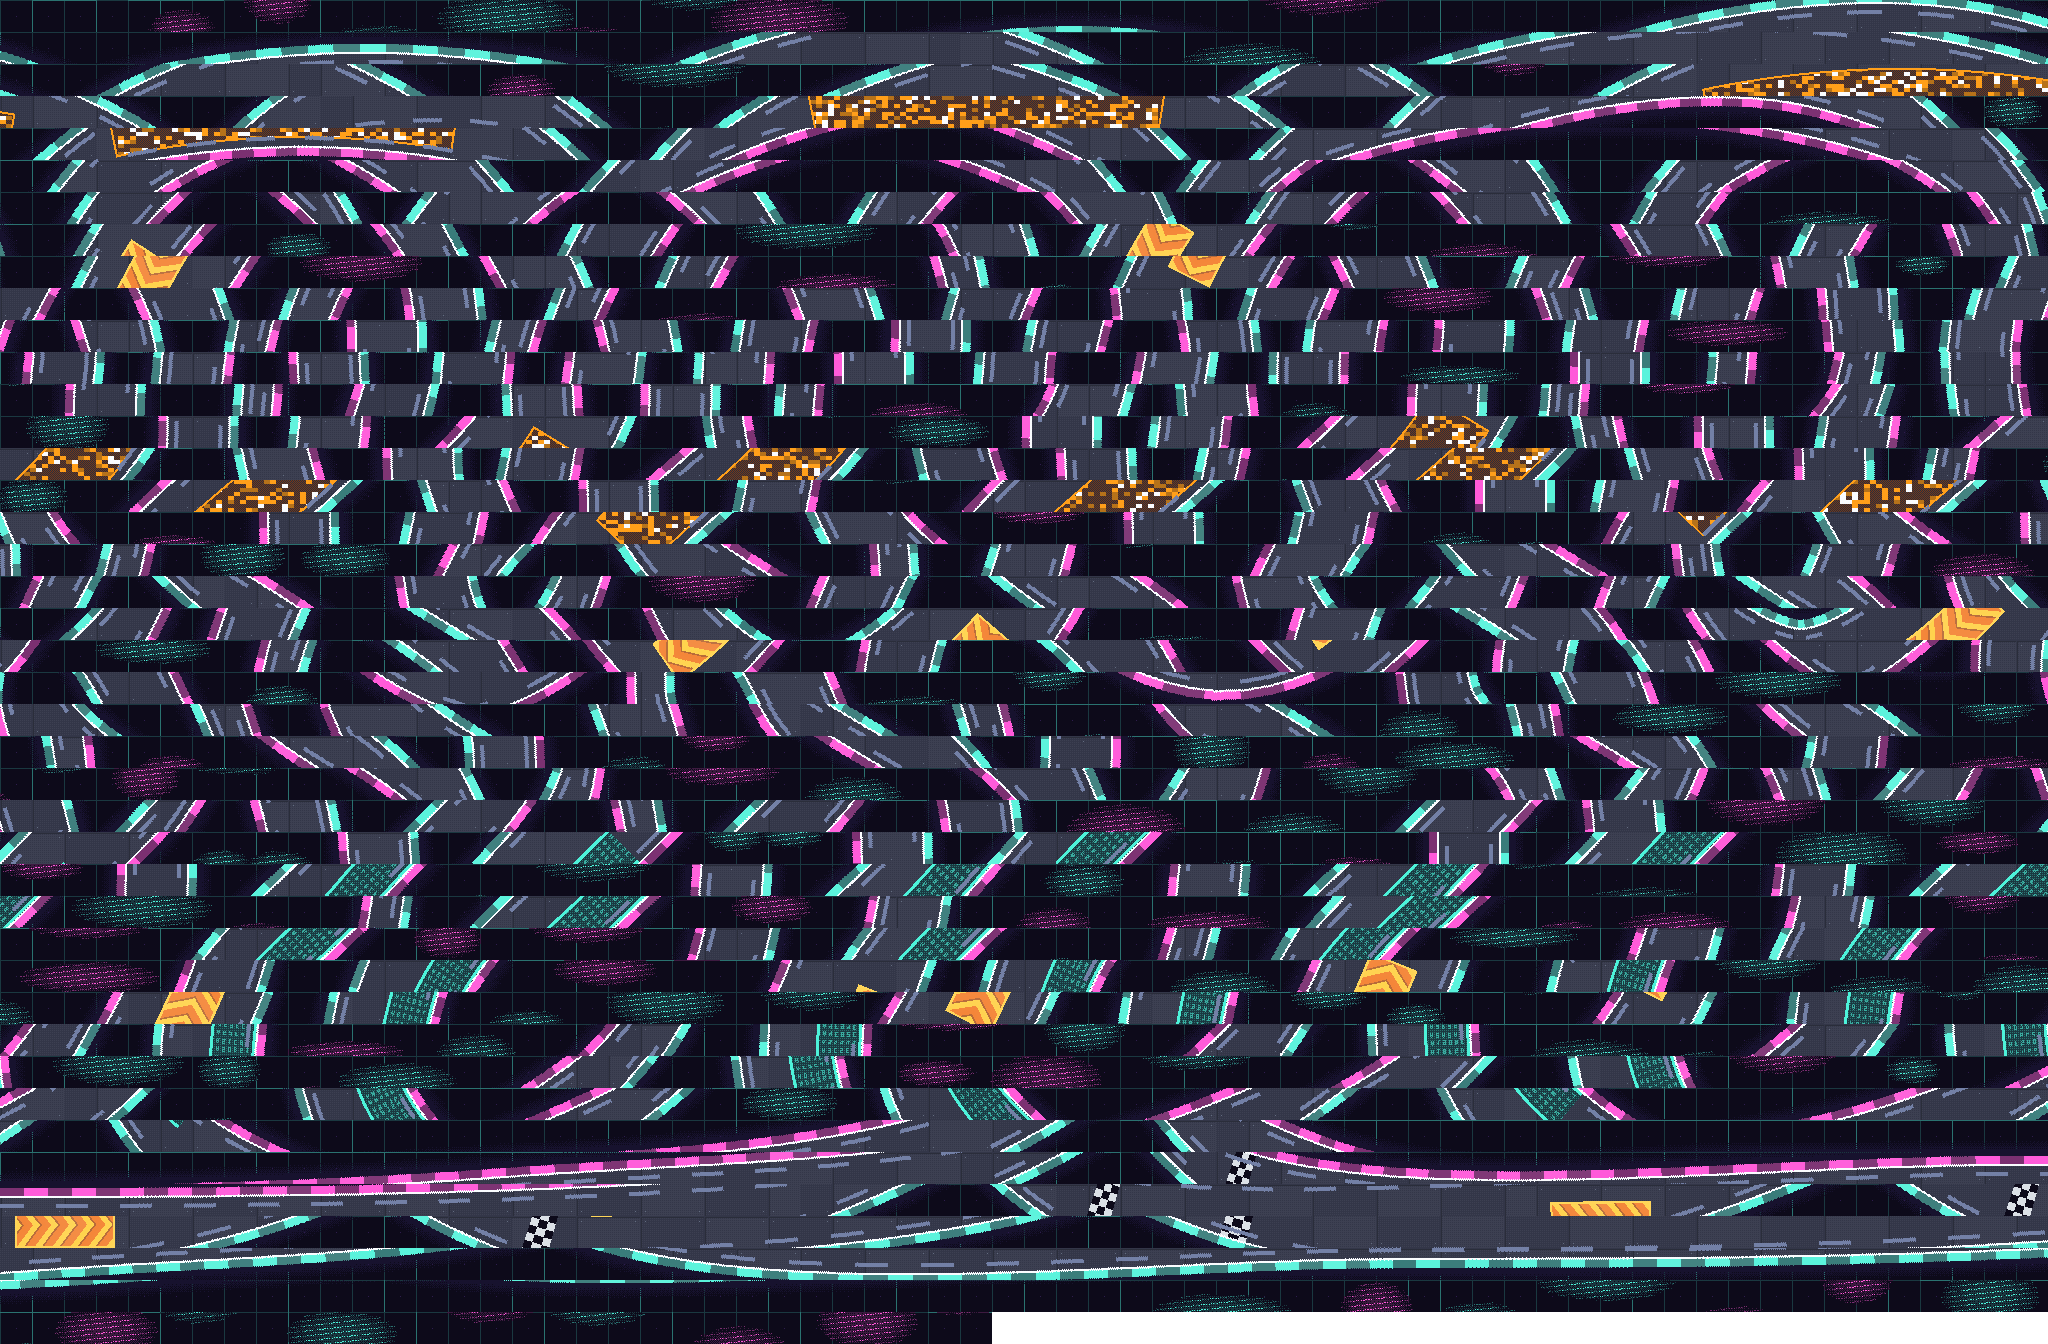
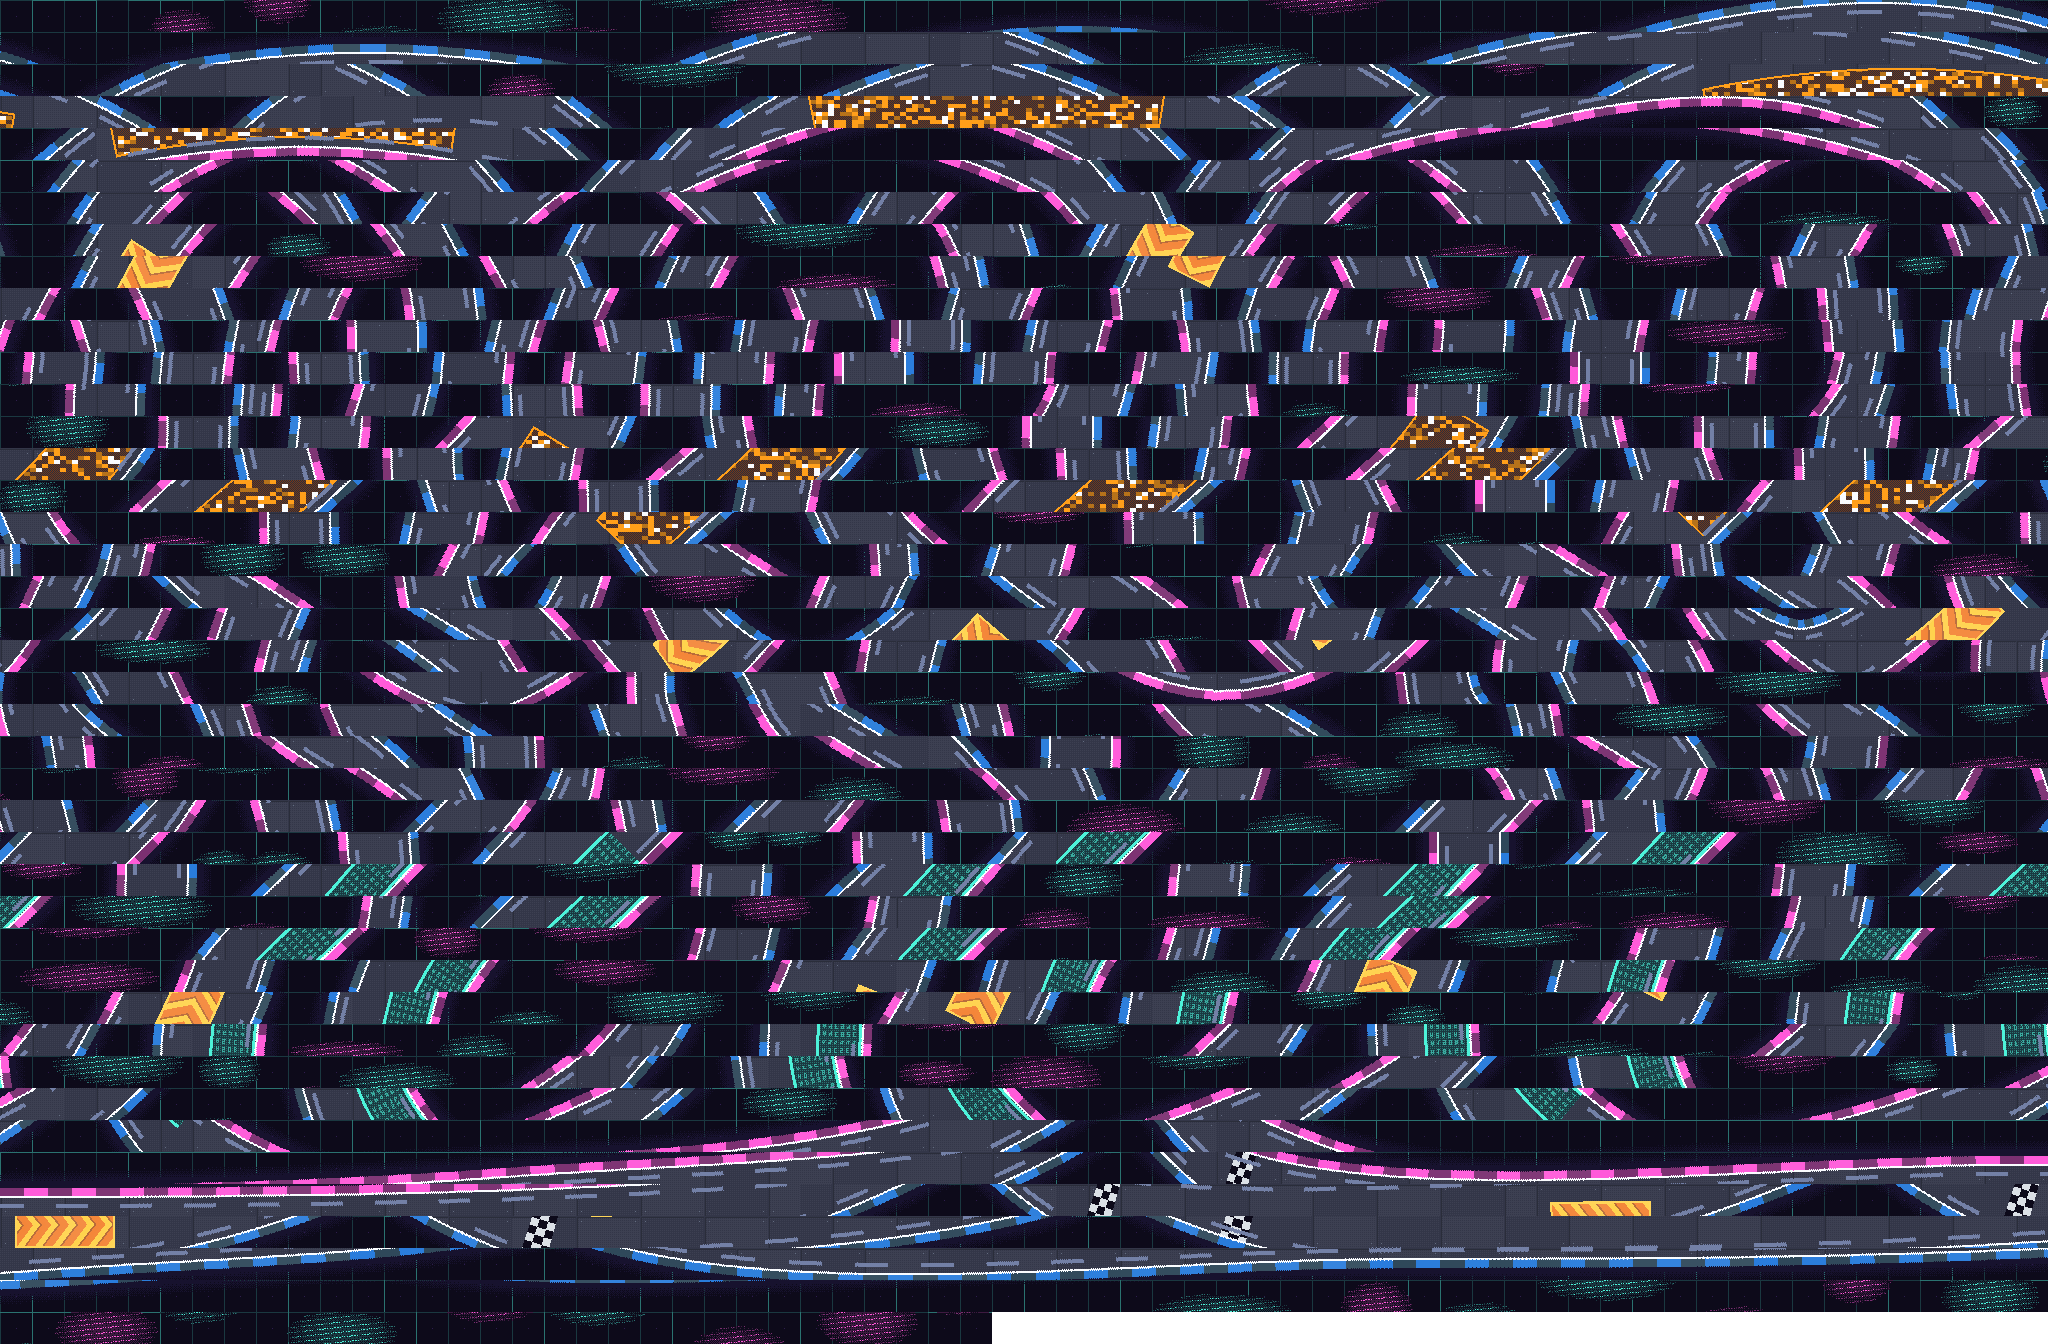
Review fixes: the glitch rests between runs, keys never stick, rails not cyan
From the adversarial review of 22f36b2..e8a9d6e:
- HIGH: a wall scrape (a hit every tick) chained 6-tick glitches over the
  whole scrape. A new glitch now waits 30 ticks after the last one started,
  and a hit during one makes it harder, never longer (P15). Tested over a
  90-tick scrape: at most 6 glitched ticks in any 30.
- The tracer's ripple leaves the road within 6 ticks of the strike (was 12).
- The right rail is cold blue, not cyan (cyan is the player's signal, P16).
- The autopilot's laps (the showcase drives on it) no longer store a best
  lap or a ghost (P7).
- The panel lets keyups through (a key held when it opened stuck) and keeps
  fx params it doesn't manage (fx-hold, fx-passes) in the URL.
- gate-p15 reads the first whole number from compare, nothing else.
- The HUD's interference band allows for the glyph's height and the dip's
  overshoot; sparks and the speed lines' vanishing point follow the dip.
- A restart clears the last race's tracer and glitch; the showcase works
  out its solo once a tick; the pools sort by a distance computed once.
- The stub reaches `hold` in a 2-lap race.
- The chase test now separates hats from kicks (sabotage found it vacuous).
- docs/effects.html (the notes page) and scripts/fx-captures (its GIFs).

diff --git a/docs/effects.html b/docs/effects.html
@@ -1,0 +1,81 @@
+<!doctype html>
+<html lang="en">
+<head>
+<meta charset="utf-8">
+<meta name="viewport" content="width=device-width, initial-scale=1">
+<title>Signal Overdrive: the 0.1 effects</title>
+<style>
+  body { margin: 0; background: #0D0A1A; color: #CCE6FF; font: 15px/1.5 ui-monospace, monospace; }
+  main { max-width: 1000px; margin: 0 auto; padding: 24px 16px 64px; }
+  h1 { color: #FF59D9; font-size: 22px; margin: 0 0 4px; }
+  h2 { color: #4DF2D9; font-size: 17px; margin: 32px 0 6px; }
+  a { color: #FFCC33; }
+  code { color: #4DF2D9; }
+  img { width: 100%; max-width: 960px; image-rendering: pixelated; border: 1px solid #2E1C4D; display: block; margin: 8px 0; }
+  table { border-collapse: collapse; margin: 8px 0; }
+  td, th { border: 1px solid #2E1C4D; padding: 4px 8px; text-align: left; vertical-align: top; }
+  th { color: #7380A6; }
+  .dim { color: #7380A6; }
+  .swatch { display: inline-block; width: 12px; height: 12px; vertical-align: middle; margin-right: 4px; }
+</style>
+</head>
+<body>
+<main>
+<h1>Signal Overdrive: the 0.1 effects</h1>
+<p class="dim">Design §4.1's 0.1 subset, plus the colour meanings. <a href="./">Play it</a>, then press <b>E</b> (or the EFFECTS button, bottom right) for the panel.</p>
+
+<h2>The panel</h2>
+<p>Each effect has ON/OFF, an intensity slider, SOLO (that effect alone) and, where it has a trigger, a button that fires it now: DROP, WALL HIT, ICE STRIKE, NEXT TIER. INTEGRITY SEEN makes the effects behave as if the cargo were at that tier. It never touches the race. SHOWCASE cycles through every effect alone for 8 s each on the autopilot, then all of them together. Everything you set goes into the address bar, so a setup is a link you can send back ("glitch at 0.6 looked right").</p>
+<p class="dim">Keys while the panel is open: Tab moves, the arrows set a slider, Enter or Space presses, E or Escape closes. The game doesn't see them. Natively: E opens the tuning overlay at the effects, F6 solo, F7 showcase, F8 wall hit, F9 ICE strike, F10 drop, F2 next tier.</p>
+
+<h2>Horizon dip</h2>
+<p><b>Trigger:</b> the drop's first downbeat (the final lap's line); DROP fires it now. <b>Look for:</b> the far road and the skyline drop about 12 rows and spring back with a small crest, while the road under you stays put and the camera kicks. The machines ride the bent ground: their screen rows go through the same bend the shader uses.</p>
+<img src="fx/dip.gif" alt="the horizon dip">
+
+<h2>Light pools</h2>
+<p><b>Trigger:</b> always on; they swell on the kick. <b>Look for:</b> magenta city pools outside the barrier, orange pools on the boost pads (flaring on the drop), cyan along the checksum lane, and an amber glow on ICE patches. Sixteen at most, the nearest to where the camera looks.</p>
+<img src="fx/pools.gif" alt="light pools">
+
+<h2>Rail and chevron chase</h2>
+<p><b>Trigger:</b> the hats step the rails' lit blocks forward; the kick steps the pads' chevrons. <b>Look for:</b> one block in four lit on each rail, stepping in rhythm, and the pads glowing on the beat.</p>
+<img src="fx/chase.gif" alt="rail chase">
+
+<h2>Skyline life</h2>
+<p><b>Trigger:</b> the kick, the snare, the bar, the pad and TRACED. <b>Look for:</b> lit windows brightening on the kick, half the signs flashing on the snare, signs changing colour or going dark on each bar, the low sky glowing with the pad, and Gibson's tower (cyan bands, the tall one) turning violet on the final lap.</p>
+<img src="fx/sky-traced.gif" alt="skyline life while traced">
+
+<h2>ICE glitch</h2>
+<p><b>Trigger:</b> a wall hit (stronger and longer the harder the hit), entering a glitch patch, a tracer's strike; WALL HIT fires one now. <b>Look for:</b> torn bands of rows, scrambled road tiles and a split red channel, gone within 6 frames (100 ms: P15's limit for anything crossing the road), and a new one waits half a second, so a long scrape along a wall glitches at most 6 frames in every 30. A harder hit during a glitch makes it harder, not longer. The dither snaps the torn colours back into the palette.</p>
+<img src="fx/glitch.gif" alt="ICE glitch">
+
+<h2>ICE warp</h2>
+<p><b>Trigger:</b> a tracer (step 3 places them after TRACED); ICE STRIKE arms one now. On the next downbeat an amber reticle lands in your lane ahead and the road ripples along it for a bar (the telegraph); on the downbeat after, it strikes with a glitch. <b>Look for:</b> the dashed amber frame and hatch, and the ripple growing through the bar. <span class="dim">The stub's strip runs straight along your heading, so on a bend it leaves the road; the real tracers will follow the lane.</span></p>
+<img src="fx/warp.gif" alt="ICE warp">
+
+<h2>Signal interference</h2>
+<p><b>Trigger:</b> the integrity tier: WORN, DAMAGED, FAILING, CRITICAL. NEXT TIER steps through them. <b>Look for:</b> rows of the sky shifting, a tracking band rolling down, the red channel bleeding, static specks, and the HUD's top text jittering with a red ghost. Dropouts land on the song's grid: DAMAGED one 16th a bar, FAILING every other beat, CRITICAL all but the first beat. <b>Never on the road</b> (P15): the road stays readable at any integrity, and the meter itself is never touched.</p>
+<img src="fx/interf-damaged.gif" alt="interference, damaged">
+<img src="fx/interf-critical.gif" alt="interference, critical">
+
+<h2>The colour meanings (P16)</h2>
+<table>
+<tr><th>Colour</th><th>Means</th><th>Where you'll see it now</th></tr>
+<tr><td><span class="swatch" style="background:#4DF2D9"></span>cyan</td><td>your live signal</td><td>the meter (above 30), the checksum lane, your machine. The right-hand rail was cyan and is now cold blue.</td></tr>
+<tr><td><span class="swatch" style="background:#FF9F1A"></span>amber</td><td>ICE</td><td>glitch patches (were red), the tracer's reticle, the ICE banner and pop-up</td></tr>
+<tr><td><span class="swatch" style="background:#B36BFF"></span>violet</td><td>Gibson</td><td>his tower's bands while TRACED; no rival is violet any more (the delta is steel for 0.1; violet waits for Null in 0.2)</td></tr>
+<tr><td><span class="swatch" style="background:#FF5959"></span>red</td><td>traced, danger</td><td><code>TRACED.</code> on the final lap, the meter below 30 (the old meter went amber in the middle: amber is ICE's now)</td></tr>
+<tr><td><span class="swatch" style="background:#F2731A"></span>orange</td><td>speed</td><td>boost pads (their amber stripe is now dark orange), the BOOST banner, the boost flame</td></tr>
+<tr><td><span class="swatch" style="background:#FF59D9"></span>magenta</td><td>the city</td><td>neon signs (no more cyan, amber or violet signs), light pools, the left-hand rail</td></tr>
+</table>
+
+<h2>What they cost</h2>
+<p>Measured in headless Chrome 143 on this laptop's AMD Radeon 780M (integrated, RADV through ANGLE and Vulkan), at the game's 480x270:</p>
+<ul>
+<li><b>GPU:</b> every effect at once, held at its peak, adds 0.02 to 0.035 ms a frame. That's the frame-time difference with the ground drawn 256 times a frame, divided by 256. The light pools are the only one above the measurement's noise (0.014 to 0.031 ms). The rest are each under about 0.017 ms.</li>
+<li><b>CPU:</b> 0.1 to 0.25 ms a frame for the effects' state (<code>fx-ms</code> on the F3 describe line), plus picking the 16 light pools.</li>
+<li><b>60 fps:</b> both this build and the prototype run at 59.1 to 59.2 fps here, with 19 to 26 late frames in 30 s. The box is at load 12 to 14 with other builds running, and the late frames had 6 to 8 ms of game work and no collection. So "held" (P32: one late frame in a thousand) can't be judged on this machine; it gets re-measured on a quiet one before 0.1.</li>
+</ul>
+<p class="dim">The beat comes from a stub until the conductor lands: 140 BPM, a kick every beat, snare on 2 and 4, off-beat hats, sections following the laps. Turn on <code>?fps</code> or F3 to see the frame times.</p>
+</main>
+</body>
+</html>

diff --git a/index.template.html b/index.template.html
@@ -238,6 +238,7 @@
       { k: "fx-warp", name: "ICE WARP", max: 1, fire: "ice", label: "ICE STRIKE" },
       { k: "fx-interf", name: "INTERFERENCE", max: 1, fire: "tier", label: "NEXT TIER" }
     ];
+    var MANAGED = ["fx-dip", "fx-pools", "fx-chase", "fx-sky", "fx-glitch", "fx-warp", "fx-interf", "fx-solo", "fx-showcase", "fx-tier", "showcase"];
     var TIERS = [["REAL", -1], ["WORN", 70], ["DAMAGED", 45], ["FAILING", 20], ["CRITICAL", 5]];
     var params = new URLSearchParams(location.search);
     var num = function (k, d) { var v = parseFloat(params.get(k)); return isNaN(v) ? d : v; };
@@ -256,7 +257,9 @@
       // is not the same parameter to the game as ?mute=
       var q = location.search.replace(/^\?/, "").split("&").filter(function (s) {
         var k = s.split("=")[0];
-        return s && k.indexOf("fx-") !== 0 && k !== "showcase";
+        // only the parameters the panel manages are rewritten (fx-hold and
+        // fx-passes, say, stay as written)
+        return s && MANAGED.indexOf(k) < 0;
       });
       FX.forEach(function (f) { if (state[f.k] !== 1) q.push(f.k + "=" + fmt(state[f.k])); });
       if (state.solo) q.push("fx-solo=" + fmt(state.solo));
@@ -330,7 +333,9 @@
       if ((e.key === "e" || e.key === "E") && !e.repeat && !e.ctrlKey && !e.metaKey && !e.altKey) { e.preventDefault(); open(!panel.classList.contains("open")); }
     }, true);
     [panel, openBtn].forEach(function (p) {
-      ["keydown", "keyup", "keypress"].forEach(function (n) {
+      // keyups always reach the game: a key held when the panel opened must
+      // still be released there, or it sticks (the review's finding)
+      ["keydown", "keypress"].forEach(function (n) {
         p.addEventListener(n, function (e) {
           if (n === "keydown" && e.key === "Escape") open(false);
           if (e.key !== "e" && e.key !== "E") e.stopPropagation();
